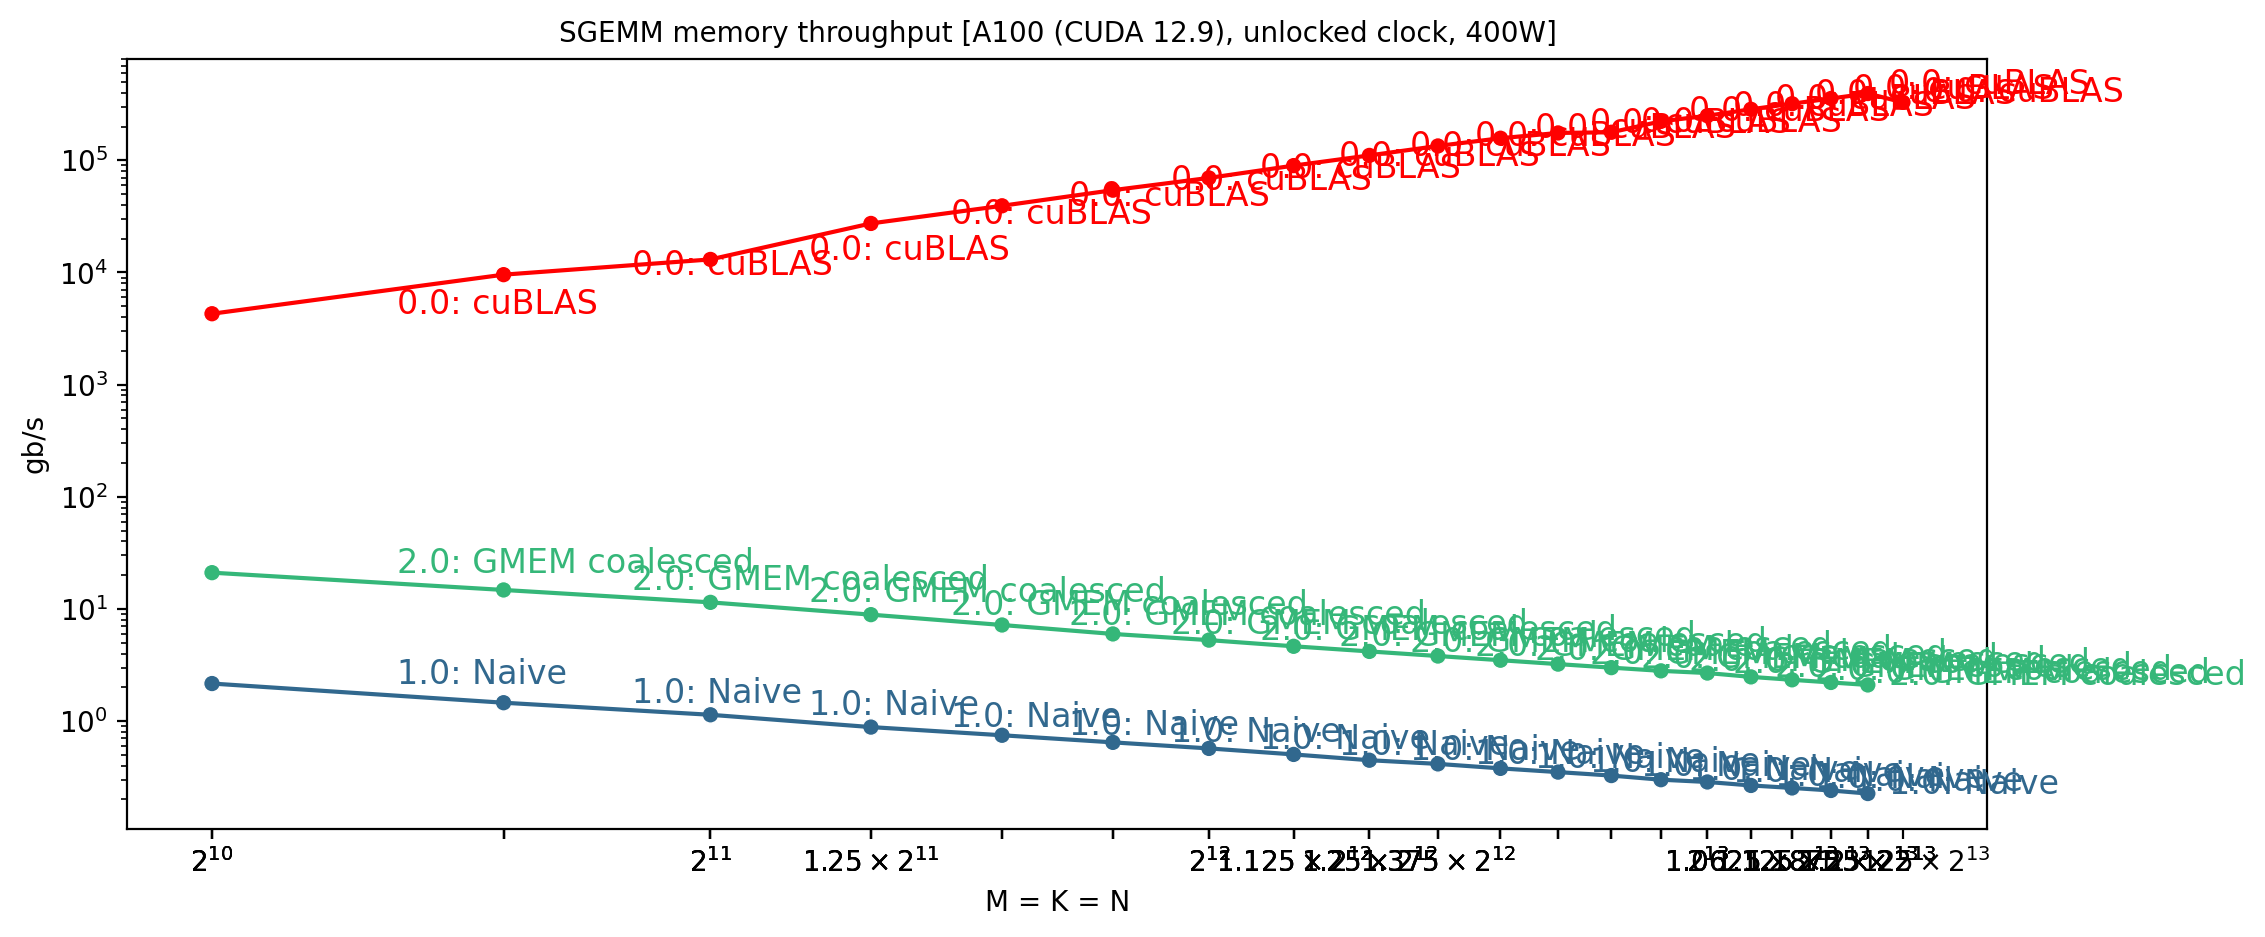
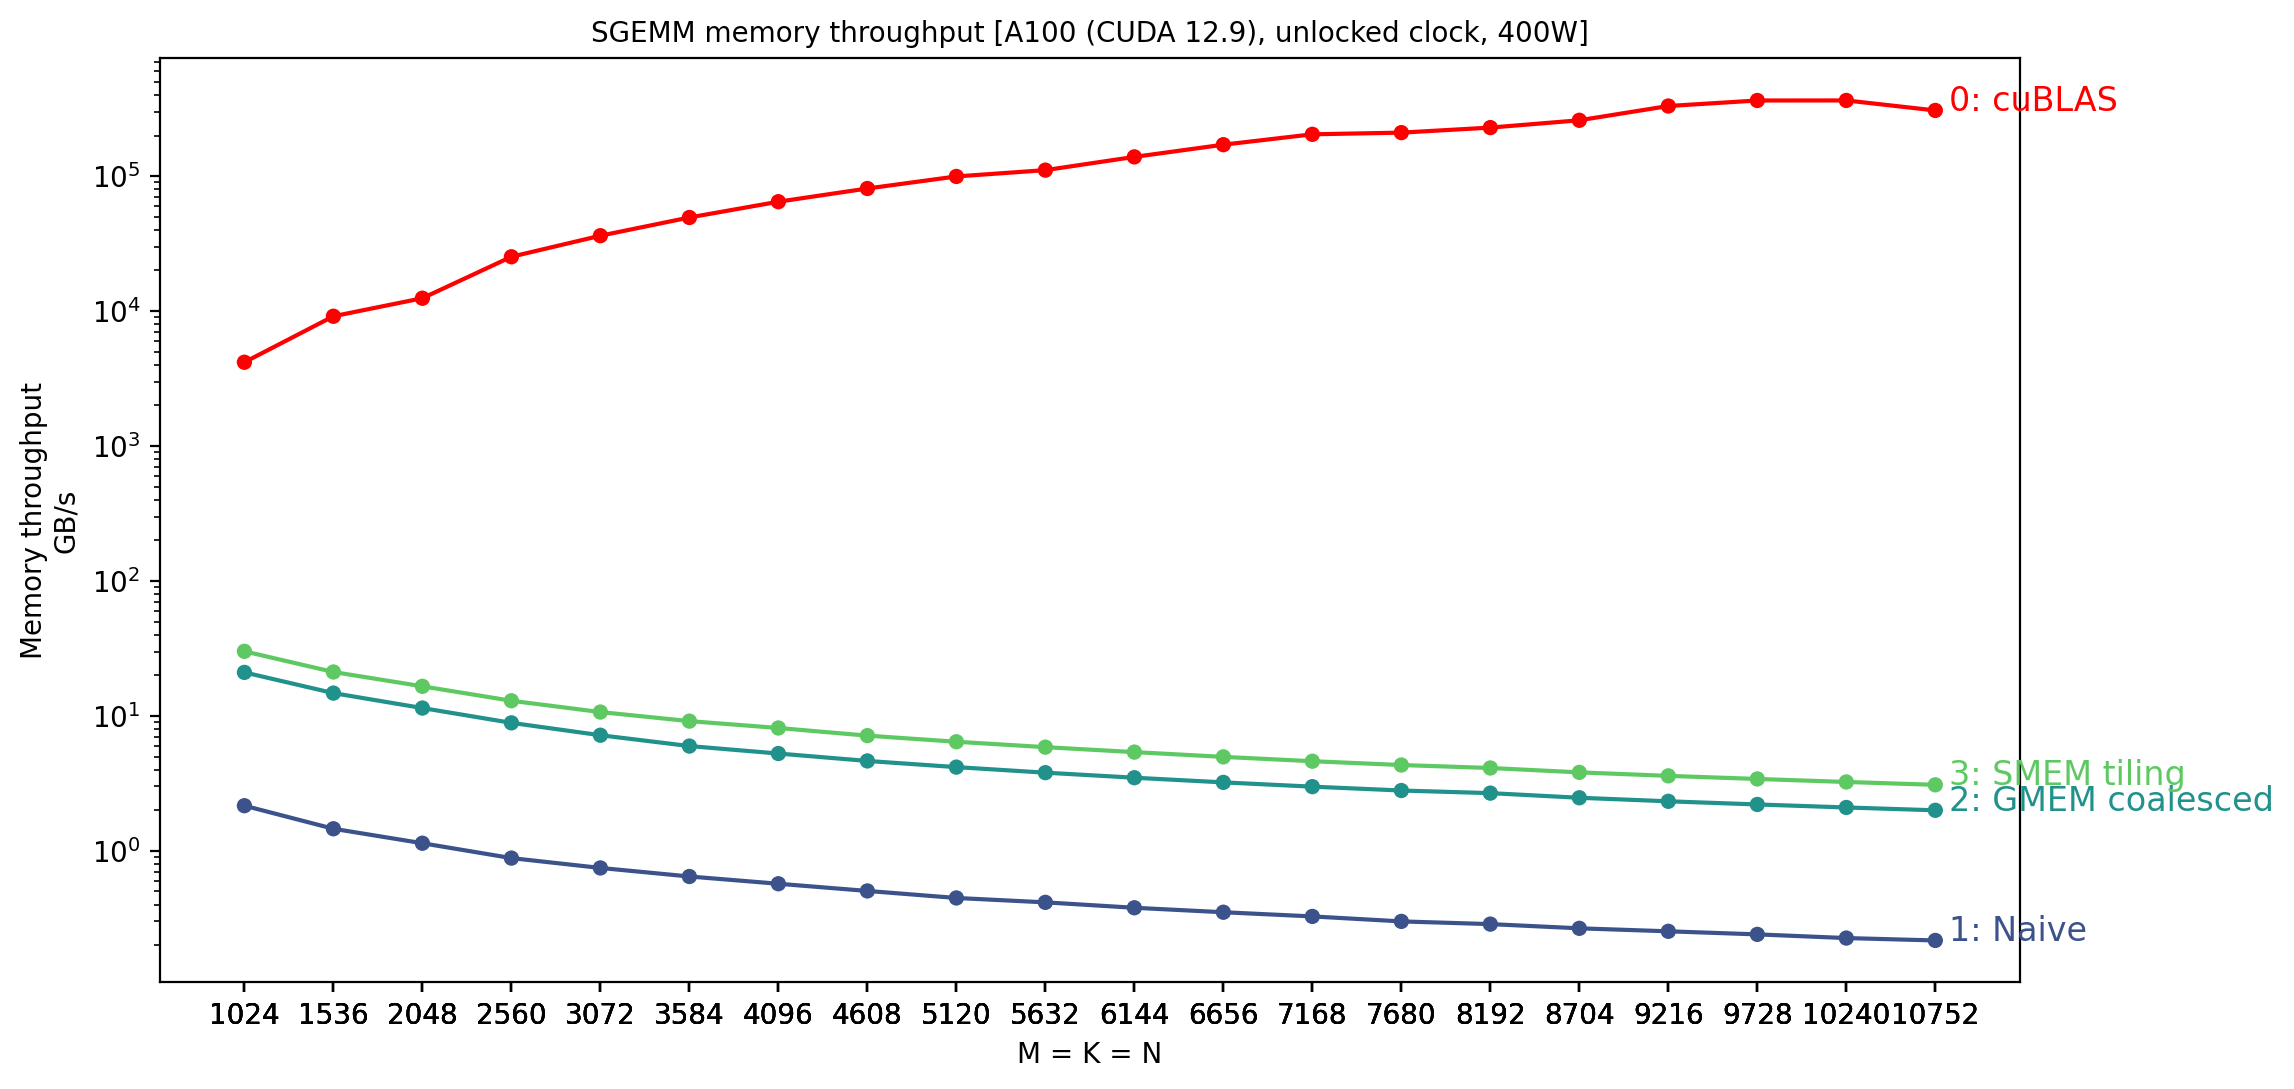
Add tiling kernel

diff --git a/plot_perf.py b/plot_perf.py
@@ -20,12 +20,12 @@ KERNEL_IDX_TO_NAME = {
     0: "cuBLAS",
     1: "Naive",
     2: "GMEM coalesced",
-    3: "SMEM blocking",
+    3: "SMEM tiling",
 }
 
 
 def read_jsonl(filepath: str) -> Dict[str, List[float]]:
-    data = {"matsize": [], "ms": [], "tflops/s": [], "gb/s": []}
+    data = {"matsize": [], "ms": [], "tflops/s": [], "gb/s": [], "flops/b": []}
     with open(filepath, "r") as f:
         for line in f:
             line = json.loads(line)
@@ -33,6 +33,7 @@ def read_jsonl(filepath: str) -> Dict[str, List[float]]:
             data["ms"].append(line["runtime"])
             data["tflops/s"].append(line["flopsThroughput"])
             data["gb/s"].append(line["memThroughput"])
+            data["flops/b"].append(line["arithmeticIntensity"])
     return data
 
 
@@ -52,6 +53,7 @@ def get_data(benchmark_dir: str) -> pd.DataFrame:
                     "ms": _data["ms"][i],
                     "tflops/s": _data["tflops/s"][i],
                     "gb/s": _data["gb/s"][i],
+                    "flops/b": _data["flops/b"][i],
                     "kernel_idx": kernel_idx,
                 }
             )
@@ -90,26 +92,30 @@ def plot_perf(
 ):
     os.makedirs(output_dir, exist_ok=True)
 
-    plt.figure(figsize=(12, 5))
+    plt.figure(figsize=(12, 6))
     _title = ""
+    _y_colname = perf_colname
     if perf_colname == "tflops/s":
         _title = " FLOPs throughput"
+        _y_colname = "FLOPs throughput\nTFLOPs/s"
     elif perf_colname == "gb/s":
         _title = " memory throughput"
+        _y_colname = "Memory throughput\nGB/s"
     elif perf_colname == "ms":
         _title = " runtime"
+        _y_colname = "Runtime\nms"
     plt.title(f"SGEMM{_title} [A100 (CUDA 12.9), unlocked clock, 400W]", fontsize=10)
     # cuBLAS is red, the rest are viridis.
     num_kernels = data["kernel_idx"].nunique()
     colors = ["red"] + sns.color_palette("viridis", n_colors=num_kernels - 1)
     plt.xlabel("M = K = N")
-    plt.ylabel(perf_colname)
+    plt.ylabel(_y_colname)
     if xscale == "log2":
         plt.xscale("log", base=2)
     else:
         plt.xscale(xscale)
     if yscale == "log2":
-        plt.yscale("log2")
+        plt.yscale("log", base=2)
     else:
         plt.yscale(yscale)
 
@@ -124,24 +130,70 @@ def plot_perf(
         x="matsize", y=perf_colname, data=data, hue="kernel_idx", palette=colors
     )
     # Don't use the legend; instead, add the text to the plot.
+    max_matsize = data["matsize"].max()
     for _, row in data.iterrows():
-        kernel_idx = row["kernel_idx"]
+        if row["matsize"] != max_matsize:
+            continue
+        kernel_idx = int(row["kernel_idx"])
         kernel_name = KERNEL_IDX_TO_NAME[kernel_idx]
         plt.text(
-            row["matsize"] + 300,
+            row["matsize"] + 80,
             row[perf_colname],
             f"{kernel_idx}: {kernel_name}",
             fontsize=12,
             ha="left",
-            color=colors[int(kernel_idx)],
+            color=colors[kernel_idx],
         )
     plt.xticks(data["matsize"])
-    plt.gca().get_legend().remove()  # remove the legend.
+    plt.gca().get_legend().remove()  # remove the legend
 
     perf_colname_no_slash = perf_colname.replace("/", "p")  # "gb/s" -> "gbps"
     plt.savefig(os.path.join(output_dir, f"perf_{perf_colname_no_slash}.png"))
     if also_save_svg:
         plt.savefig(os.path.join(output_dir, f"perf_{perf_colname_no_slash}.svg"))
+
+
+def plot_flops_roofline(
+    data: pd.DataFrame, output_dir: str, also_save_svg: bool = False
+):
+    print("Plotting flops roofline ...")
+    os.makedirs(output_dir, exist_ok=True)
+
+    num_kernels = data["kernel_idx"].nunique()
+    colors = ["red"] + sns.color_palette("viridis", n_colors=num_kernels - 1)
+    plt.figure(figsize=(12, 6))
+    plt.title(f"SGEMM FLOPs roofline [A100 (CUDA 12.9), unlocked clock, 400W]")
+    plt.xlabel("Arithmetic intensity\nFLOPs/B")
+    plt.ylabel("FLOPS throughput\nTFLOPs/s")
+    plt.xscale("log", base=2)
+    plt.yscale("log", base=2)
+
+    sns.scatterplot(
+        x="flops/b",
+        y="tflops/s",
+        data=data,
+        hue="kernel_idx",
+        palette=colors,
+    )
+    sns.lineplot(x="flops/b", y="tflops/s", data=data, hue="kernel_idx", palette=colors)
+    max_flops_b = data["flops/b"].max()
+    for _, row in data.iterrows():
+        if row["flops/b"] != max_flops_b:
+            continue
+        kernel_idx = int(row["kernel_idx"])
+        kernel_name = KERNEL_IDX_TO_NAME[kernel_idx]
+        plt.text(
+            row["flops/b"] + 30,
+            row["tflops/s"],
+            f"{kernel_idx}: {kernel_name}",
+            fontsize=12,
+            ha="left",
+            color=colors[kernel_idx],
+        )
+    plt.gca().get_legend().remove()
+    plt.savefig(os.path.join(output_dir, f"flops_roofline.png"))
+    if also_save_svg:
+        plt.savefig(os.path.join(output_dir, f"flops_roofline.svg"))
 
 
 if __name__ == "__main__":
@@ -157,7 +209,7 @@ if __name__ == "__main__":
             data=data,
             output_dir=output_dir,
             perf_colname=perf_colname,
-            xscale="log2",
+            xscale="linear",
             yscale="log",
-            also_save_svg=True if perf_colname == "tflops/s" else False,
         )
+    plot_flops_roofline(data=data, output_dir=output_dir)

diff --git a/README.md b/README.md
@@ -4,7 +4,8 @@ Accompanying repo for the blog post: https://tushaargvs.github.io/posts/matmul.h
 
 > This repo was adapted from:
 >
-> - https://github.com/siboehm/SGEMM_CUDA and
+> - https://github.com/salykova/sgemm.cu,
+> - https://github.com/siboehm/SGEMM_CUDA, and
 > - https://github.com/wangzyon/NVIDIA_SGEMM_PRACTICE.
 
 Running on a single A100 GPU:
@@ -15,9 +16,10 @@ FLOPS throughput (TFLOPs/s) for SGEMM with matrices of size `M = K = N = 8192`:
 
 |       Kernel        | FLOPS throughput (TFLOPs/s) | Relative to cuBLAS |
 | :-----------------: | :-------------------------: | :----------------: |
-|     0.0: cuBLAS     |          4.995e+02          |      100.000%      |
-|     1.0: Naive      |          5.730e-04          |       0.000%       |
-| 2.0: GMEM coalesced |          5.363e-03          |       0.001%       |
+|     0.0: cuBLAS     |          2.345e+05          |      100.000%      |
+|     1.0: Naive      |          2.935e-01          |       0.000%       |
+| 2.0: GMEM coalesced |          2.743e+00          |       0.001%       |
+|  3.0: SMEM tiling   |          4.212e+00          |       0.002%       |
 
 ## Installation
 
@@ -46,20 +48,20 @@ conda remove -n sgemm-env --all
 Build the project and run it:
 
 ```shell
-make [VERBOSE=1] [-B] build
-[DEVICE=<device-idx>] ./sgemm <kernel-num>
+make [VERBOSE=1] [-B] build 2> err.log
+[DEVICE=<device-idx>] ./sgemm <kernel-num> 2> err.log
 ```
 
 To profile a kernel, run:
 
 ```shell
-make profile KERNEL=<kernel-num>
+make profile KERNEL=<kernel-num> 2> err.log
 ```
 
 To benchmark all kernels, run:
 
 ```shell
-make bench [KERNEL=<kernel-num1>,<kernel-num2>,...]
+make bench [KERNEL=<kernel-num1>,<kernel-num2>,...] 2> err.log
 ```
 
 ### Troubleshooting
